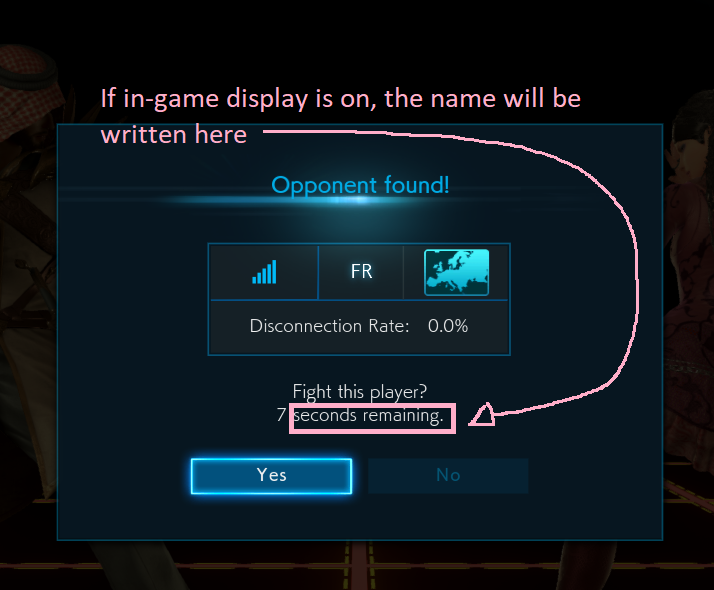
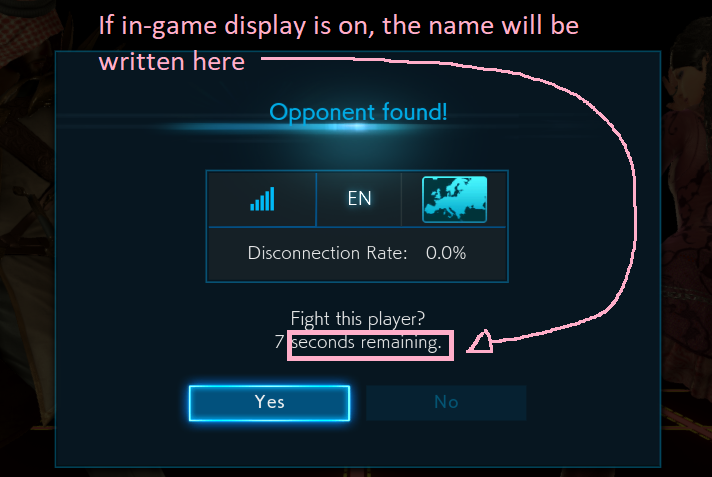
new readme for version 1.3.5 (in-game display fixed) (edit 2)

diff --git a/README.md b/README.md
@@ -26,7 +26,7 @@ Extra information: The second "Opponent name" window always displays your name, 
 * ALT+F  puts the game in full-screen mode
 * ALT+C  opens the comment window where you can write a comment after playing against an opponent
 * ALT+O  opens the list of all the players you played against
-* ALT+S  turn on in-game feedback
+* ALT+S  turn off silent mode, or in other words: turn on in-game feedback (program is in silent mode by default)
 
 ## Dependencies
 It is possible (usually on new computers) that when trying to run the .exe for the first time you might get an error that looks something like this: "VCRUNTIME140_1.dll was not found". To fix this error you can download the 64-bit version of the package called "Visual C++ Redistributable for Visual Studio 2019" (from [here](https://www.sts-tutorial.com/download/credistributable2019) for example). Or alternatively if you want a quicker (but generally not recommended) way you can also manually download the dll (from [here](https://www.dll-files.com/vcruntime140_1.dll.html)) and place it in the following folder: "C:\Windows\System32".
@@ -34,3 +34,4 @@ It is possible (usually on new computers) that when trying to run the .exe for t
 ## Issues
 * The program is sometimes unable to get the name of the opponent. You can just decline those match requests.
 * It is also possible that the program gets the name wrong. But from my (limited) experience this tends to be rare.
+* Your game language has to be in English, if it isn't the in-game display will not work, but the program window will still display the correct information.
